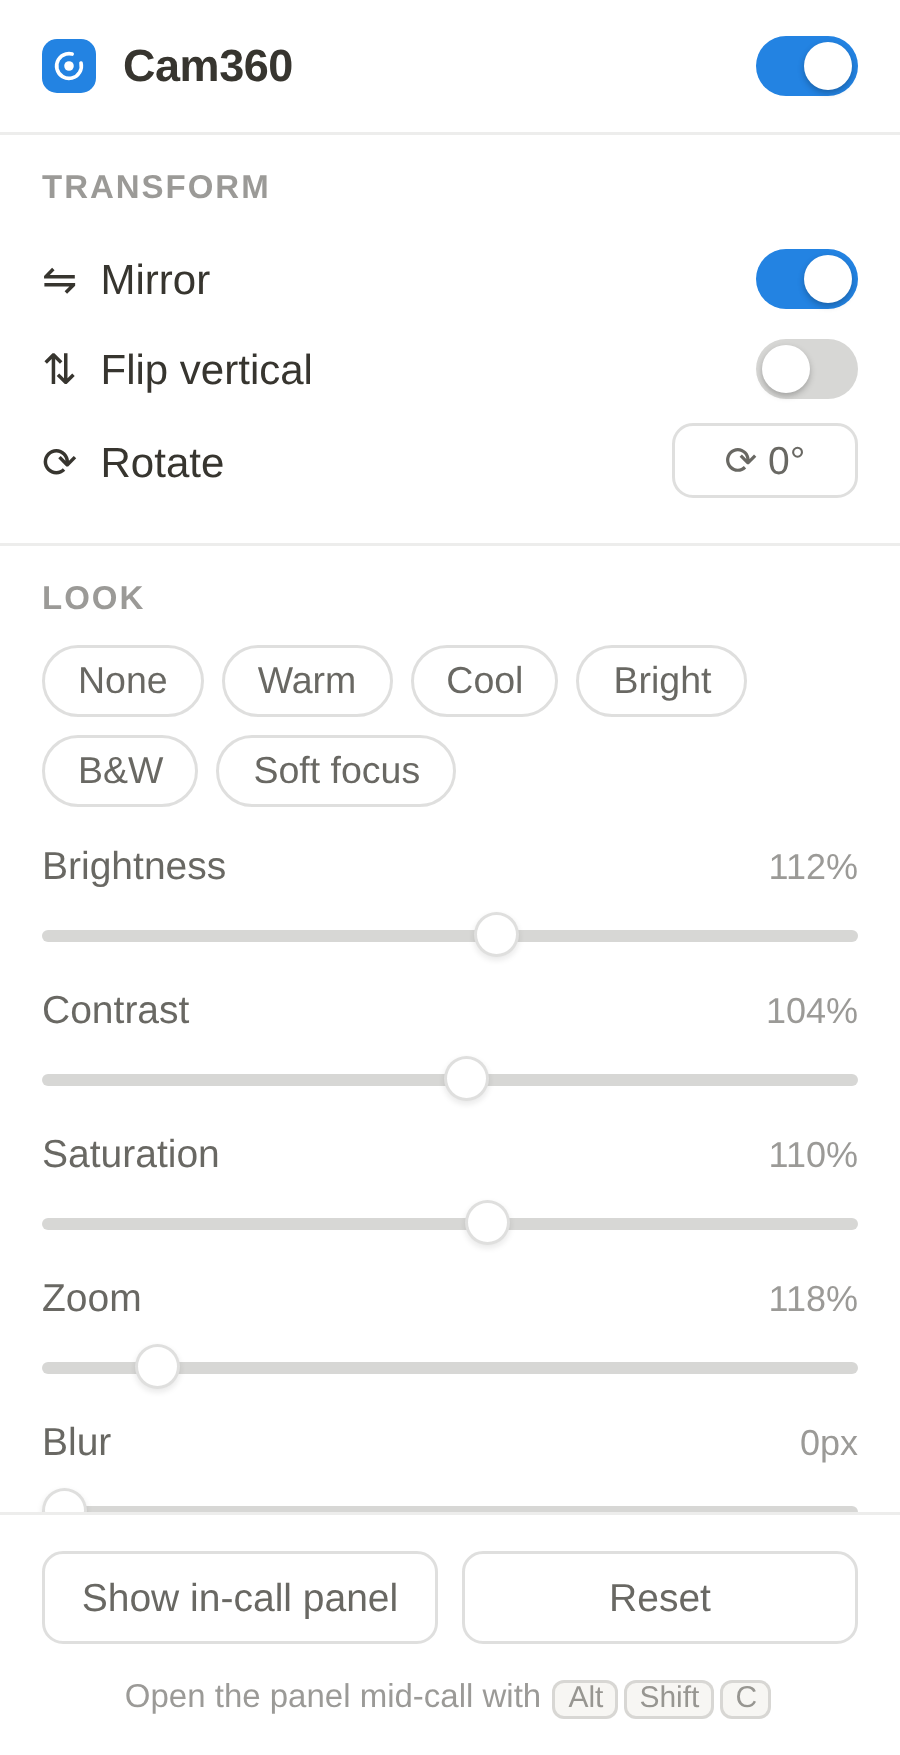
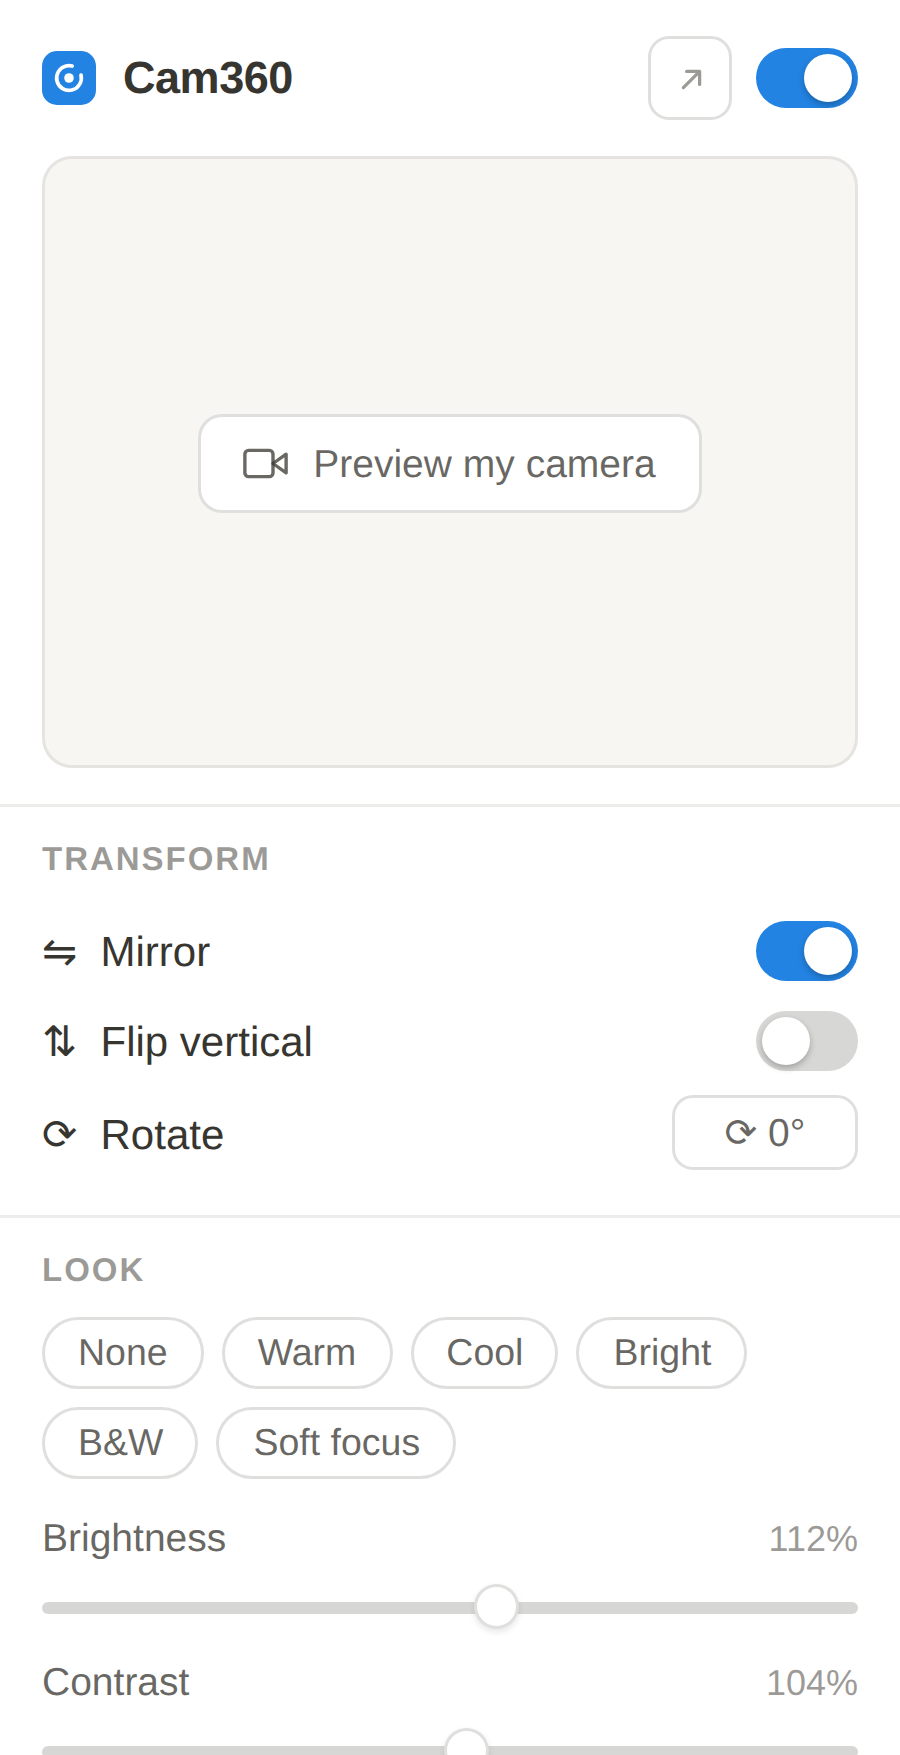
Add dark mode to the site, a footer theme switch, and tidy the nav
Dark mode is three state, matching how the extension already behaves: the OS
preference wins by default, and an explicit choice in the footer overrides it in
either direction and persists. The palette is applied through the existing
tokens, so nothing needed recolouring by hand; the few hardcoded values that
would have broken (nav backdrop, primary button text, step numerals, hero glow)
are now tokens too. A tiny inline script applies the saved choice before first
paint, so a dark visitor never gets a white flash.

The hero screenshot follows the theme. popup-dark.png was deleted in the earlier
trim, so both shots are re-rendered from the current popup and clipped to the
real 300x585 popup height, since the popup has grown taller with the preview and
credit line and a full height capture would have skewed the hero.

Nav drops View source, from both the bar and the mobile menu; the store button
is the one action there now, and the remaining links get a padded hit area.

Responsive: the switch goes full width with 44px targets on phones and 40px on
tablets, where the nav has already collapsed.

Verified across 16 sizes from a 280px foldable to 2560px, in both themes: no
horizontal scroll, nothing wider than the viewport, no undersized phone touch
targets, no console errors. The switch itself was tested for all three states,
persistence across reload, and returning to Auto following the OS again.

Claude-Session: https://claude.ai/code/session_01B6CmMDV9SCsRiPuYXvyAim

diff --git a/web/styles.css b/web/styles.css
@@ -20,7 +20,52 @@
   --gutter: 24px;
   --nav-h: 60px;
   --tap: 44px;              /* iOS HIG minimum, Android asks for 48dp */
+  --nav-bg: rgba(255, 255, 255, 0.86);
+  --on-accent: #ffffff;
+  --scheme: light;
 }
+
+/* Dark palette. Defined once and applied in two places: when the OS asks for
+   dark and the visitor has not chosen, and when they explicitly choose dark. */
+@media (prefers-color-scheme: dark) {
+  :root:not([data-theme="light"]) {
+    --ink: rgba(255, 255, 255, 0.92);
+    --ink-2: rgba(255, 255, 255, 0.68);
+    --ink-3: rgba(255, 255, 255, 0.46);
+    --canvas: #191919;
+    --sunken: #212121;
+    --line: rgba(255, 255, 255, 0.09);
+    --line-2: rgba(255, 255, 255, 0.17);
+    --blue: #4c9df0;
+    --blue-press: #6bb0f5;
+    --wash: rgba(76, 157, 240, 0.16);
+    --shadow-card: 0 1px 2px rgba(0, 0, 0, 0.4);
+    --shadow-float: 0 24px 60px rgba(0, 0, 0, 0.5), 0 2px 8px rgba(0, 0, 0, 0.4);
+    --shadow-pop: 0 12px 32px rgba(0, 0, 0, 0.5), 0 1px 3px rgba(0, 0, 0, 0.4);
+    --nav-bg: rgba(25, 25, 25, 0.84);
+    --on-accent: #08121c;
+    --scheme: dark;
+  }
+}
+:root[data-theme="dark"] {
+  --ink: rgba(255, 255, 255, 0.92);
+  --ink-2: rgba(255, 255, 255, 0.68);
+  --ink-3: rgba(255, 255, 255, 0.46);
+  --canvas: #191919;
+  --sunken: #212121;
+  --line: rgba(255, 255, 255, 0.09);
+  --line-2: rgba(255, 255, 255, 0.17);
+  --blue: #4c9df0;
+  --blue-press: #6bb0f5;
+  --wash: rgba(76, 157, 240, 0.16);
+  --shadow-card: 0 1px 2px rgba(0, 0, 0, 0.4);
+  --shadow-float: 0 24px 60px rgba(0, 0, 0, 0.5), 0 2px 8px rgba(0, 0, 0, 0.4);
+  --shadow-pop: 0 12px 32px rgba(0, 0, 0, 0.5), 0 1px 3px rgba(0, 0, 0, 0.4);
+  --nav-bg: rgba(25, 25, 25, 0.84);
+  --on-accent: #08121c;
+  --scheme: dark;
+}
+html { color-scheme: light dark; }
 
 * { box-sizing: border-box; margin: 0; padding: 0; }
 
@@ -60,7 +105,7 @@ a { color: inherit; text-decoration: none; }
 /* ---------- Nav ---------- */
 .nav {
   position: sticky; top: 0; z-index: 50;
-  background: rgba(255, 255, 255, 0.86);
+  background: var(--nav-bg);
   -webkit-backdrop-filter: saturate(180%) blur(12px);   /* iOS Safari needs the prefix */
   backdrop-filter: saturate(180%) blur(12px);
   border-bottom: 1px solid var(--line);
@@ -68,7 +113,10 @@ a { color: inherit; text-decoration: none; }
 .nav-in { display: flex; align-items: center; gap: 28px; height: var(--nav-h); }
 .brand { display: flex; align-items: center; gap: 9px; font-weight: 600; font-size: 16px; letter-spacing: -0.02em; }
 .brand svg { width: 24px; height: 24px; border-radius: 6px; flex: 0 0 auto; }
-.nav-links { display: flex; gap: 26px; margin-left: auto; font-size: 14px; color: var(--ink-2); }
+.nav-links { display: flex; gap: 4px; margin-left: auto; font-size: 14px; color: var(--ink-2); }
+.nav-links a {
+  padding: 7px 12px; border-radius: 8px; transition: background .12s, color .12s;
+}
 .nav-cta { display: flex; align-items: center; gap: 10px; margin-left: auto; }
 .nav-links + .nav-cta { margin-left: 0; }
 
@@ -95,6 +143,24 @@ a { color: inherit; text-decoration: none; }
 .menu-panel a:active { background: var(--sunken); color: var(--ink); }
 .menu-sep { height: 1px; background: var(--line); margin: 5px 8px; }
 
+/* Theme switch, in the footer */
+.themeswitch { display: inline-flex; align-items: center; gap: 10px; }
+.themeswitch .label { font-size: 13.5px; color: var(--ink-2); }
+.seg-theme {
+  display: inline-flex; background: var(--sunken); border: 1px solid var(--line);
+  border-radius: 999px; padding: 3px; gap: 2px;
+}
+.seg-theme button {
+  display: inline-flex; align-items: center; justify-content: center; gap: 6px;
+  min-height: 32px; padding: 0 12px; border: none; background: transparent;
+  border-radius: 999px; cursor: pointer; font-family: inherit; font-size: 13px;
+  color: var(--ink-3); transition: background .14s, color .14s;
+}
+.seg-theme button[aria-pressed="true"] {
+  background: var(--canvas); color: var(--ink); box-shadow: var(--shadow-card); font-weight: 500;
+}
+.seg-theme svg { flex: 0 0 auto; }
+
 /* ---------- Buttons ---------- */
 .btn {
   display: inline-flex; align-items: center; justify-content: center; gap: 7px;
@@ -103,7 +169,7 @@ a { color: inherit; text-decoration: none; }
   cursor: pointer; white-space: nowrap;
   transition: background .15s, border-color .15s, color .15s, transform .06s;
 }
-.btn-primary { background: var(--blue); color: #fff; }
+.btn-primary { background: var(--blue); color: var(--on-accent); }
 .btn-ghost { border-color: var(--line-2); color: var(--ink-2); background: transparent; }
 .btn-lg { font-size: 15px; padding: 12px 22px; }
 .btn:active { transform: scale(0.985); }
@@ -132,7 +198,7 @@ h1 {
 .shot { position: relative; }
 .shot::before {
   content: ""; position: absolute; inset: -12% -22% -8%;
-  background: radial-gradient(60% 55% at 50% 42%, rgba(35, 131, 226, 0.13), transparent 70%);
+  background: radial-gradient(60% 55% at 50% 42%, var(--wash), transparent 70%);
   border-radius: 50%; z-index: 0;
 }
 .shot img {
@@ -190,7 +256,7 @@ h2 { font-size: clamp(1.6rem, 5.4vw, 2rem); line-height: 1.2; font-weight: 600; 
 .flow li { display: flex; gap: 13px; font-size: 15px; color: var(--ink-2); line-height: 1.55; }
 .flow .n {
   flex: 0 0 auto; width: 22px; height: 22px; border-radius: 6px;
-  background: var(--ink); color: #fff; font-size: 11.5px; font-weight: 600;
+  background: var(--ink); color: var(--canvas); font-size: 11.5px; font-weight: 600;
   display: flex; align-items: center; justify-content: center; margin-top: 3px;
 }
 .flow b { color: var(--ink); font-weight: 600; }
@@ -267,6 +333,7 @@ footer {
 }
 .foot-top { display: flex; gap: 30px; flex-wrap: wrap; align-items: center; margin-bottom: 26px; }
 .foot-links { display: flex; gap: 24px; margin-left: auto; font-size: 14px; color: var(--ink-2); flex-wrap: wrap; }
+.foot-theme { margin-bottom: 22px; }
 .foot-built { font-size: 14.5px; color: var(--ink-2); margin-bottom: 20px; }
 .foot-built a {
   position: relative;
@@ -286,7 +353,7 @@ footer {
 /* ---------- Pointer capable devices only ---------- */
 /* Guarding hover stops phones from latching a hover state after a tap. */
 @media (hover: hover) and (pointer: fine) {
-  .nav-links a:hover { color: var(--ink); }
+  .nav-links a:hover { color: var(--ink); background: var(--sunken); }
   .menu-panel a:hover { background: var(--sunken); color: var(--ink); }
   .btn-primary:hover { background: var(--blue-press); }
   .btn-ghost:hover { background: var(--sunken); color: var(--ink); }
@@ -307,6 +374,7 @@ footer {
   .btn-lg { min-height: 48px; }
   .foot-links a { min-height: var(--tap); display: flex; align-items: center; }
   .brand { min-height: var(--tap); }
+  .seg-theme button { min-height: 40px; padding: 0 16px; }
   /* Tablet portrait keeps two columns, it just tightens. Stacking this early
      left the headline running the full width with half the row empty. */
   .hero-grid { grid-template-columns: 1fr minmax(210px, 260px); gap: 40px; }
@@ -353,6 +421,11 @@ footer {
   .foot-top { gap: 18px; margin-bottom: 22px; }
   .foot-links { margin-left: 0; gap: 4px 18px; font-size: 14.5px; }
   footer { padding-top: 38px; }
+  /* Switch goes full width and taller so it is comfortable to thumb */
+  .themeswitch { width: 100%; flex-direction: column; align-items: flex-start; gap: 8px; }
+  .seg-theme { width: 100%; }
+  .seg-theme button { flex: 1; min-height: var(--tap); font-size: 13.5px; }
+  .foot-theme { margin-bottom: 26px; }
 }
 
 /* ---------- Small phones ---------- */

diff --git a/web/index.html b/web/index.html
@@ -21,6 +21,15 @@
 <meta name="twitter:description" content="Fix your framing, lighting, and background on any site that asks for your camera. Everything runs locally in Chrome.">
 <meta name="twitter:image" content="https://cam360.vercel.app/assets/og.png">
 <link rel="stylesheet" href="/styles.css">
+<script>
+// Applied before first paint so a dark visitor never sees a white flash.
+(function () {
+  try {
+    var t = localStorage.getItem("cam360-theme");
+    if (t === "dark" || t === "light") document.documentElement.dataset.theme = t;
+  } catch (e) {}
+})();
+</script>
 </head>
 <body>
 
@@ -36,7 +45,6 @@
       <a href="#faq">FAQ</a>
     </div>
     <div class="nav-cta">
-      <a class="btn btn-ghost nav-source" href="https://github.com/realanshuman/cam360">View source</a>
       <a class="btn btn-primary" href="https://chromewebstore.google.com/detail/cam360/ddnijfcmkiogmndecegggdieokbhlhpe" rel="noopener"><span class="cta-long">Add to Chrome</span><span class="cta-short">Install</span></a>
       <details class="menu" id="menu">
         <summary class="menu-btn" aria-label="Open menu" role="button">
@@ -47,8 +55,6 @@
           <a href="#how">How it works</a>
           <a href="#install">Install</a>
           <a href="#faq">FAQ</a>
-          <div class="menu-sep"></div>
-          <a href="https://github.com/realanshuman/cam360">View source</a>
         </div>
       </details>
     </div>
@@ -68,7 +74,10 @@
       <p class="micro">Free and open source. No account, no servers, nothing leaves your computer.</p>
     </div>
     <div class="shot">
-      <img src="/assets/popup-light.png" width="300" height="585" alt="The Cam360 popup showing transform toggles, lighting sliders, background controls, and overlay options.">
+      <picture>
+        <source srcset="/assets/popup-dark.png" media="(prefers-color-scheme: dark)">
+        <img id="heroShot" src="/assets/popup-light.png" width="300" height="585" alt="The Cam360 popup showing transform toggles, lighting sliders, background controls, and overlay options.">
+      </picture>
     </div>
   </div>
 </header>
@@ -227,6 +236,22 @@
         <a href="/privacy">Privacy</a>
       </div>
     </div>
+    <div class="foot-theme">
+      <div class="themeswitch">
+        <span class="label" id="themeLabel">Appearance</span>
+        <div class="seg-theme" role="group" aria-labelledby="themeLabel">
+          <button type="button" data-theme-set="light" aria-pressed="false">
+            <svg width="14" height="14" viewBox="0 0 24 24" fill="none" stroke="currentColor" stroke-width="2" stroke-linecap="round"><circle cx="12" cy="12" r="4.2"/><path d="M12 2.5v2M12 19.5v2M4.2 4.2l1.4 1.4M18.4 18.4l1.4 1.4M2.5 12h2M19.5 12h2M4.2 19.8l1.4-1.4M18.4 5.6l1.4-1.4"/></svg>
+            Light
+          </button>
+          <button type="button" data-theme-set="system" aria-pressed="true">Auto</button>
+          <button type="button" data-theme-set="dark" aria-pressed="false">
+            <svg width="14" height="14" viewBox="0 0 24 24" fill="none" stroke="currentColor" stroke-width="2" stroke-linecap="round" stroke-linejoin="round"><path d="M20 14.5A8.5 8.5 0 1 1 9.5 4a6.8 6.8 0 0 0 10.5 10.5z"/></svg>
+            Dark
+          </button>
+        </div>
+      </div>
+    </div>
     <p class="foot-built">Built by <a href="https://realanshuman.com" target="_blank" rel="noopener noreferrer">Ansh</a></p>
     <p class="foot-note">Cam360 is an independent project and is not affiliated with, endorsed by, or sponsored by Google, Discord, Zoom, Whereby, or Jitsi. Product names are used only to describe where the extension runs.</p>
   </div>
@@ -245,6 +270,44 @@
   document.addEventListener("keydown", function (e) {
     if (e.key === "Escape") menu.open = false;
   });
+})();
+
+/* Theme switch: light, dark, or follow the system. */
+(function () {
+  var root = document.documentElement;
+  var buttons = [].slice.call(document.querySelectorAll("[data-theme-set]"));
+  var shot = document.getElementById("heroShot");
+  var meta = document.querySelector('meta[name="theme-color"]');
+  var mq = window.matchMedia("(prefers-color-scheme: dark)");
+
+  function current() {
+    try { return localStorage.getItem("cam360-theme") || "system"; } catch (e) { return "system"; }
+  }
+  function isDark() {
+    var c = current();
+    return c === "dark" || (c === "system" && mq.matches);
+  }
+  function paint() {
+    var choice = current();
+    buttons.forEach(function (b) {
+      b.setAttribute("aria-pressed", String(b.dataset.themeSet === choice));
+    });
+    var dark = isDark();
+    // The <picture> handles the system case; override it when the user chose.
+    if (shot) shot.src = dark ? "/assets/popup-dark.png" : "/assets/popup-light.png";
+    if (meta) meta.setAttribute("content", dark ? "#191919" : "#ffffff");
+  }
+  function apply(choice) {
+    try { localStorage.setItem("cam360-theme", choice); } catch (e) {}
+    if (choice === "system") delete root.dataset.theme;
+    else root.dataset.theme = choice;
+    paint();
+  }
+  buttons.forEach(function (b) {
+    b.addEventListener("click", function () { apply(b.dataset.themeSet); });
+  });
+  if (mq.addEventListener) mq.addEventListener("change", paint);
+  paint();
 })();
 </script>
 </body>
